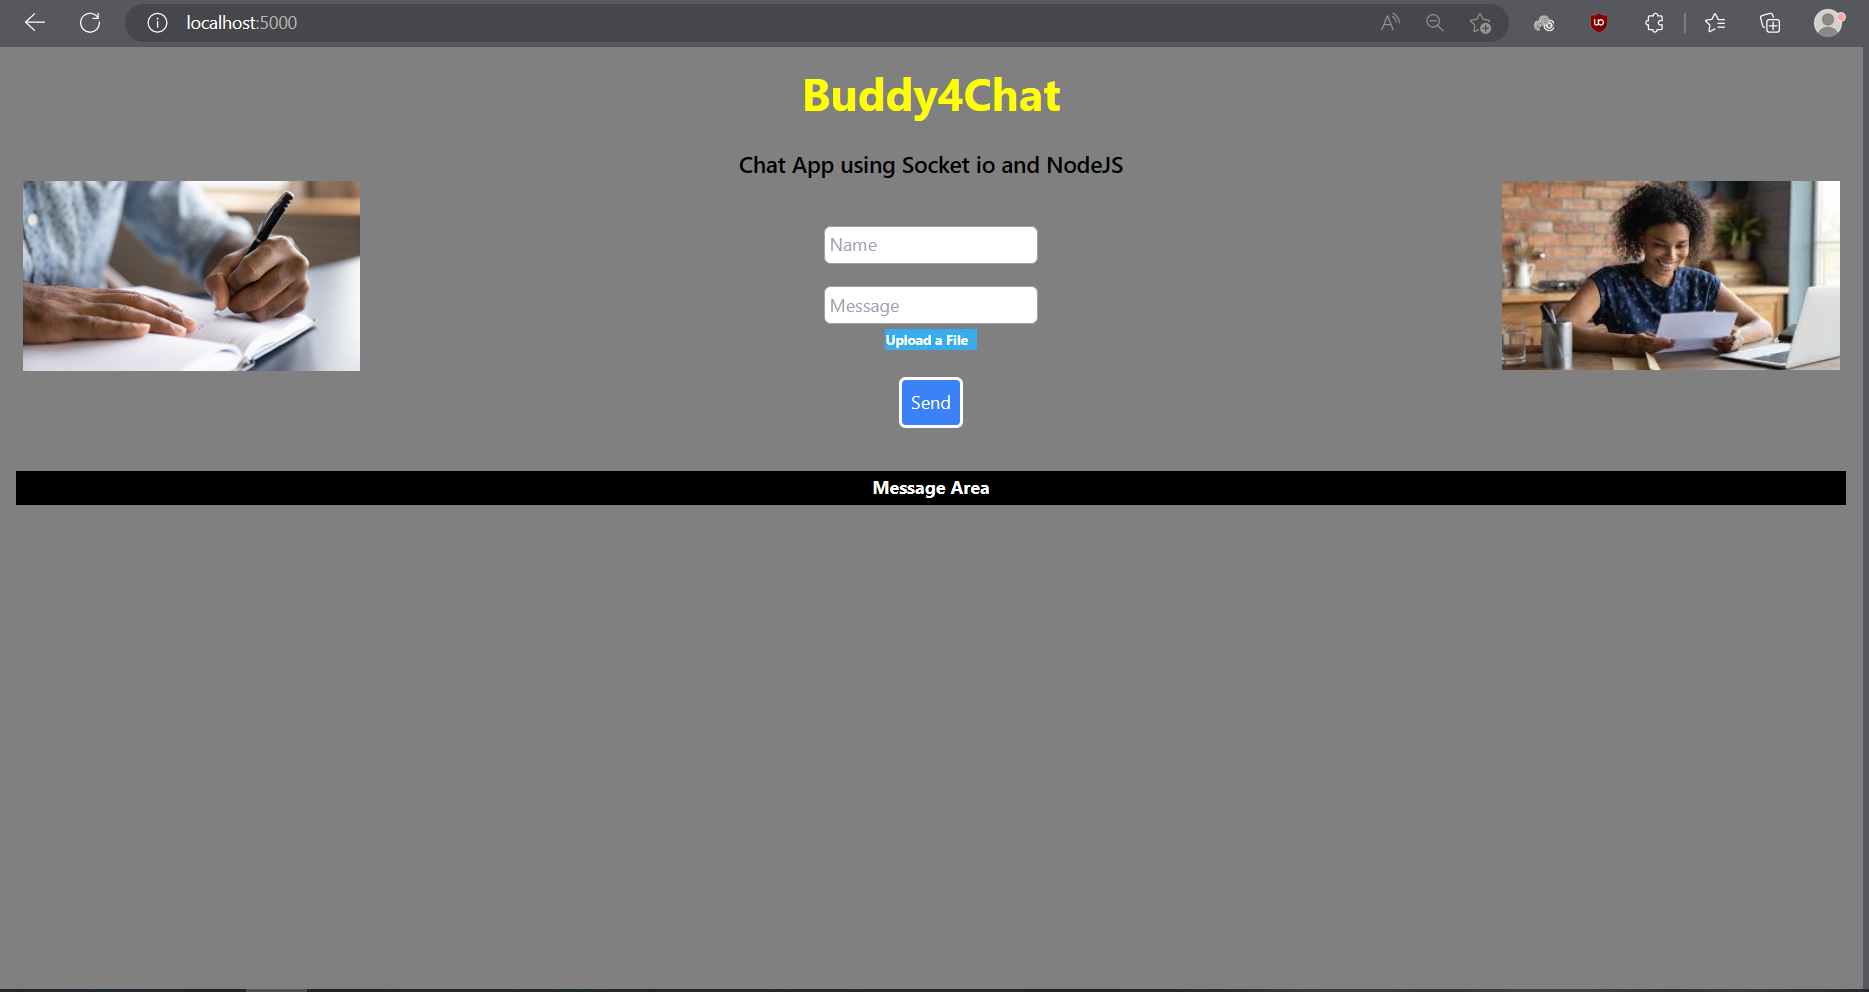
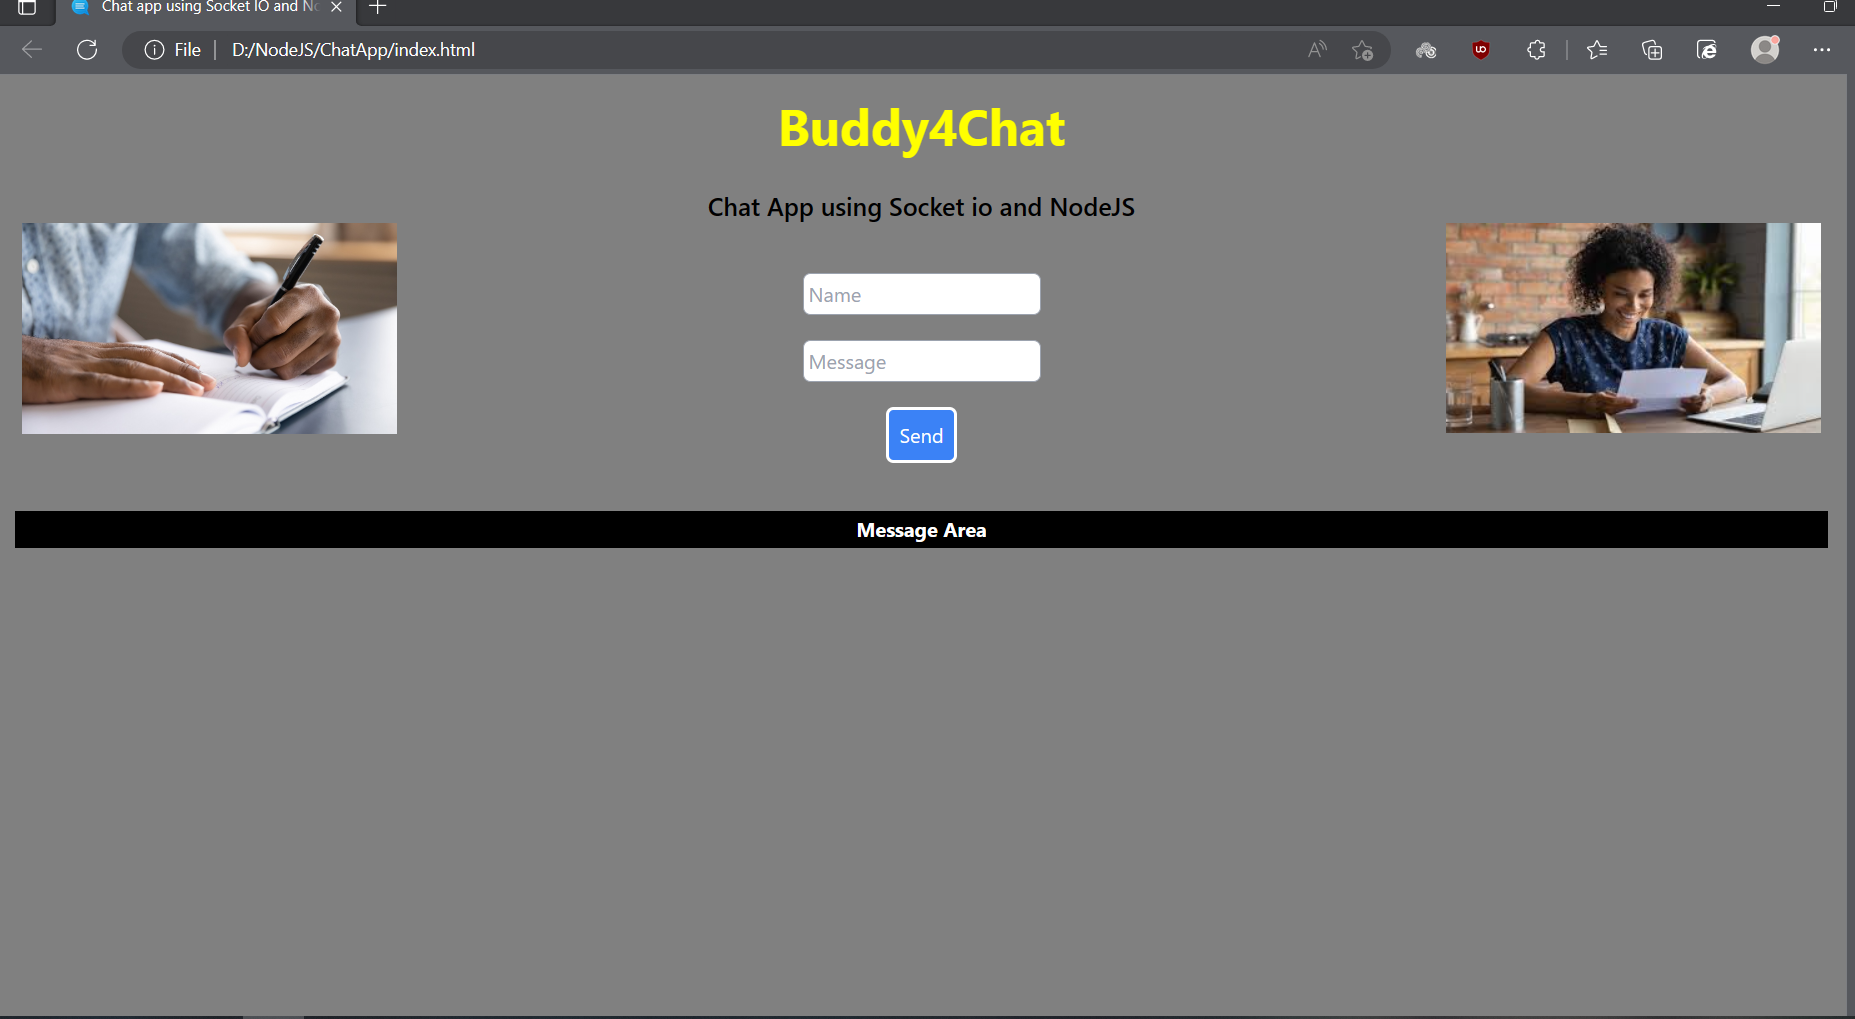
ChatApp using Socket.io

Changed region(s): [[0.0, 0.0, 1.0, 0.5625], [0.7682, 0.1562, 1.0, 0.4375], [0.0, 0.1562, 0.2151, 0.4375]]

diff --git a/index.html b/index.html
@@ -3,6 +3,7 @@
 
 <head>
 	<title>Chat app using Socket IO and Node JS</title>
+<link rel="icon" type="image/x-icon" href="https://img.icons8.com/?size=512&id=D6fq9I7xyv5X&format=png">
 	<script src="https://cdn.tailwindcss.com"></script>
 </head>
 
@@ -36,7 +37,7 @@
 			type="text"
 			placeholder="Message"
 			id="message">
-            <div style="width: 90px; background-color:#38ACEC ; color: white; border:  5px gray solid;font-size: 12px;font-weight: bold;"><a href="https://drive-clone-2884e.web.app/" target="_blank">Upload a File</a></div>
+            
             <button class="bg-blue-500 rounded-md p-2
 					text-white mt-5" style="border:3px white solid;">
 			Send
